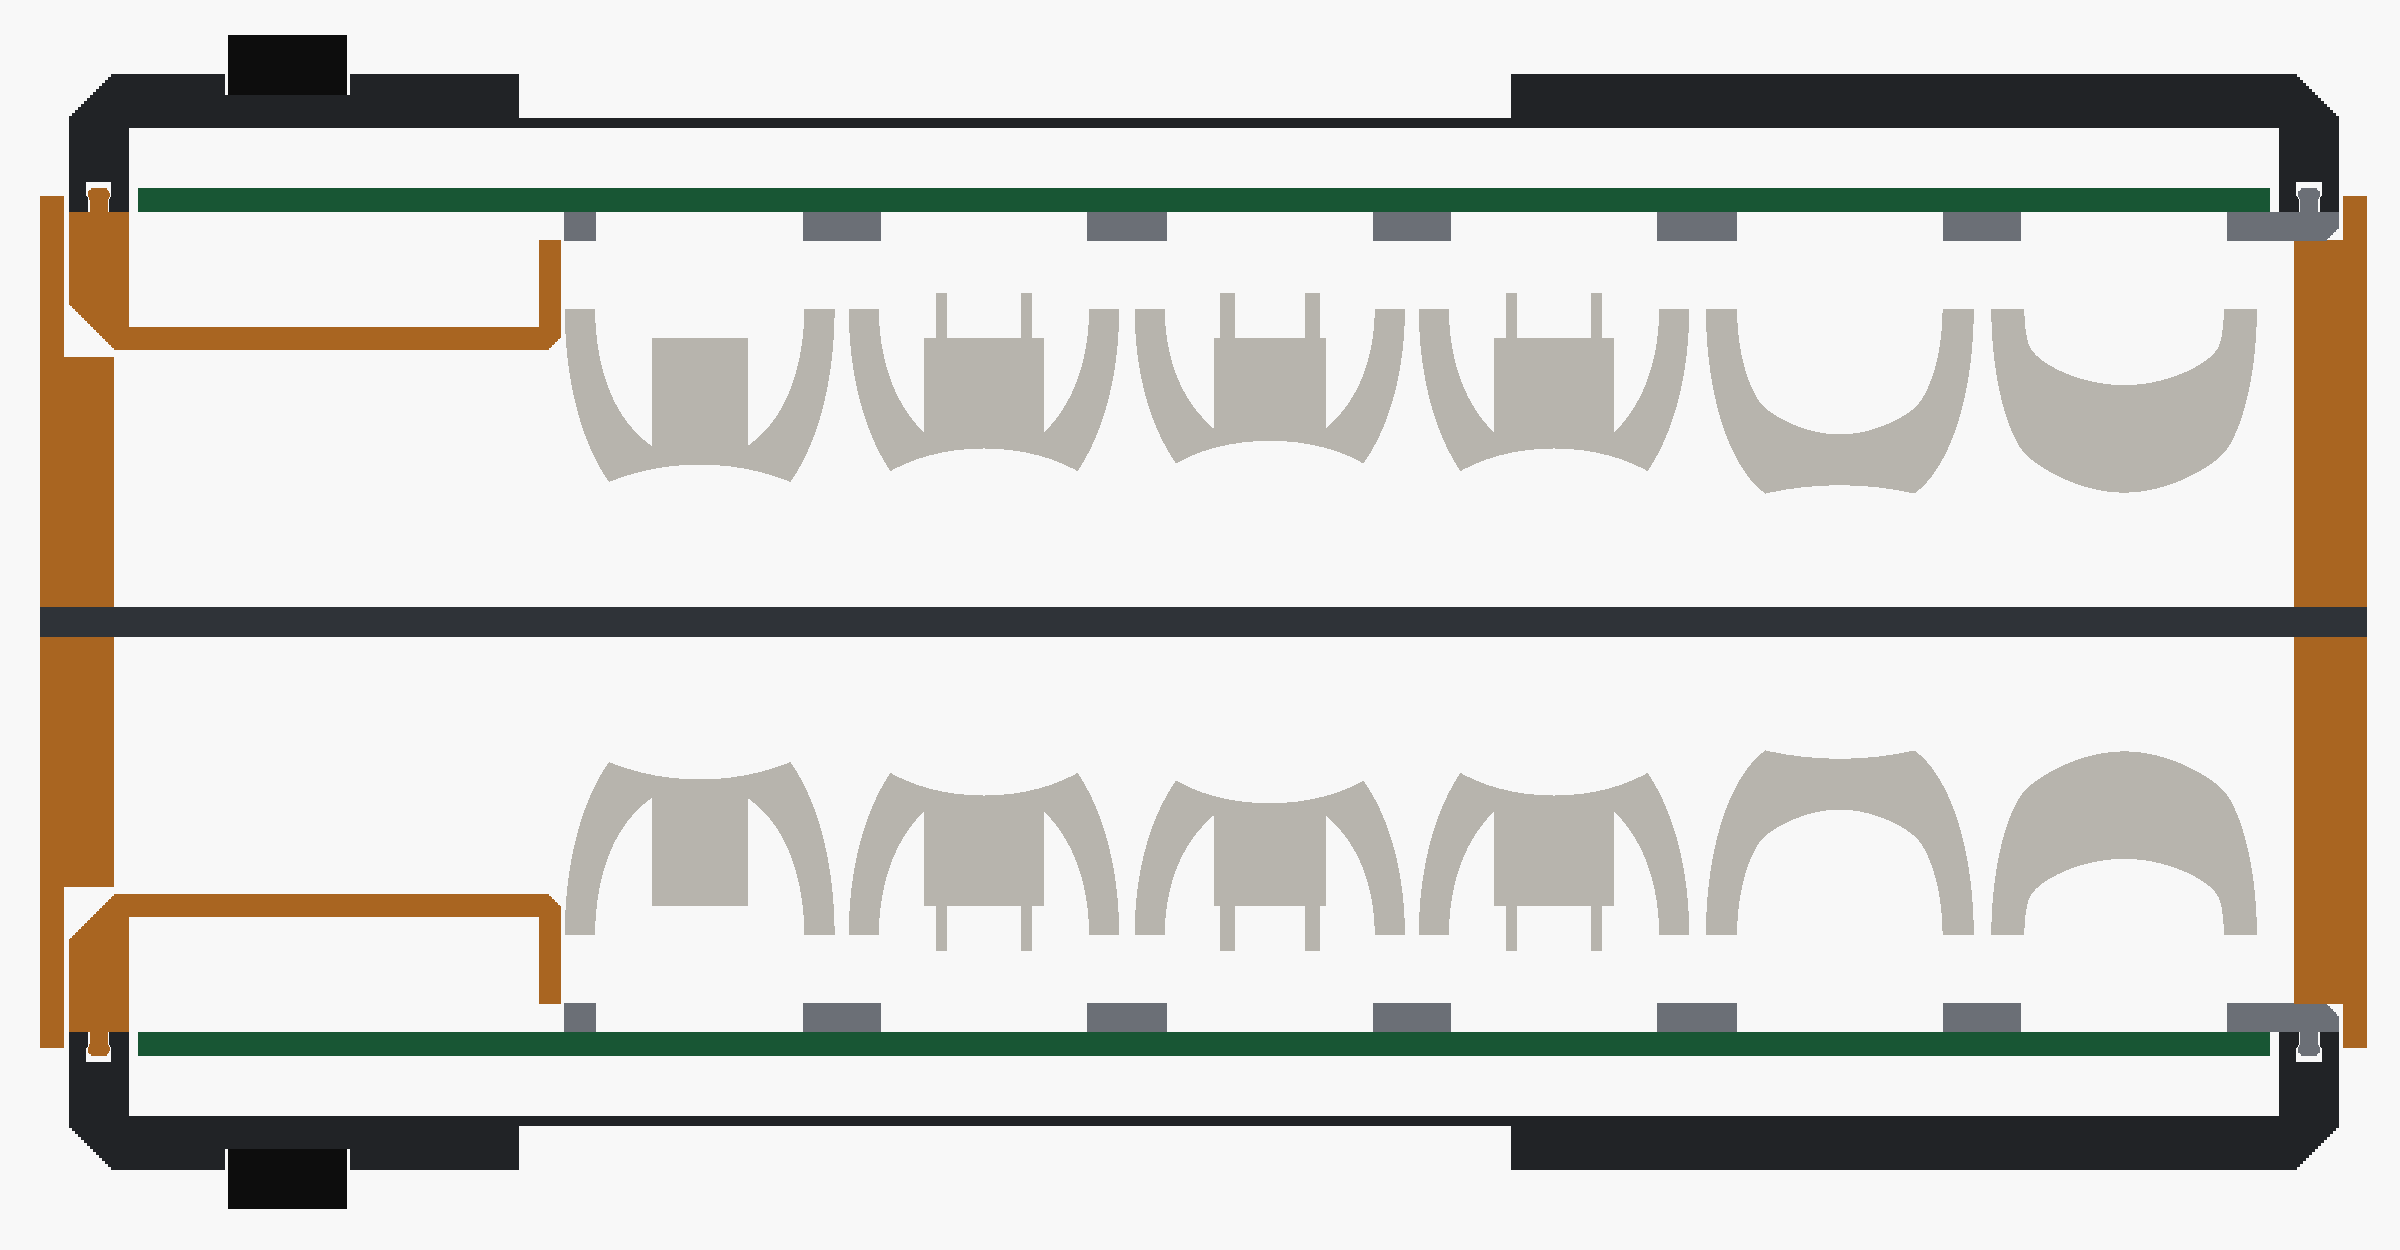
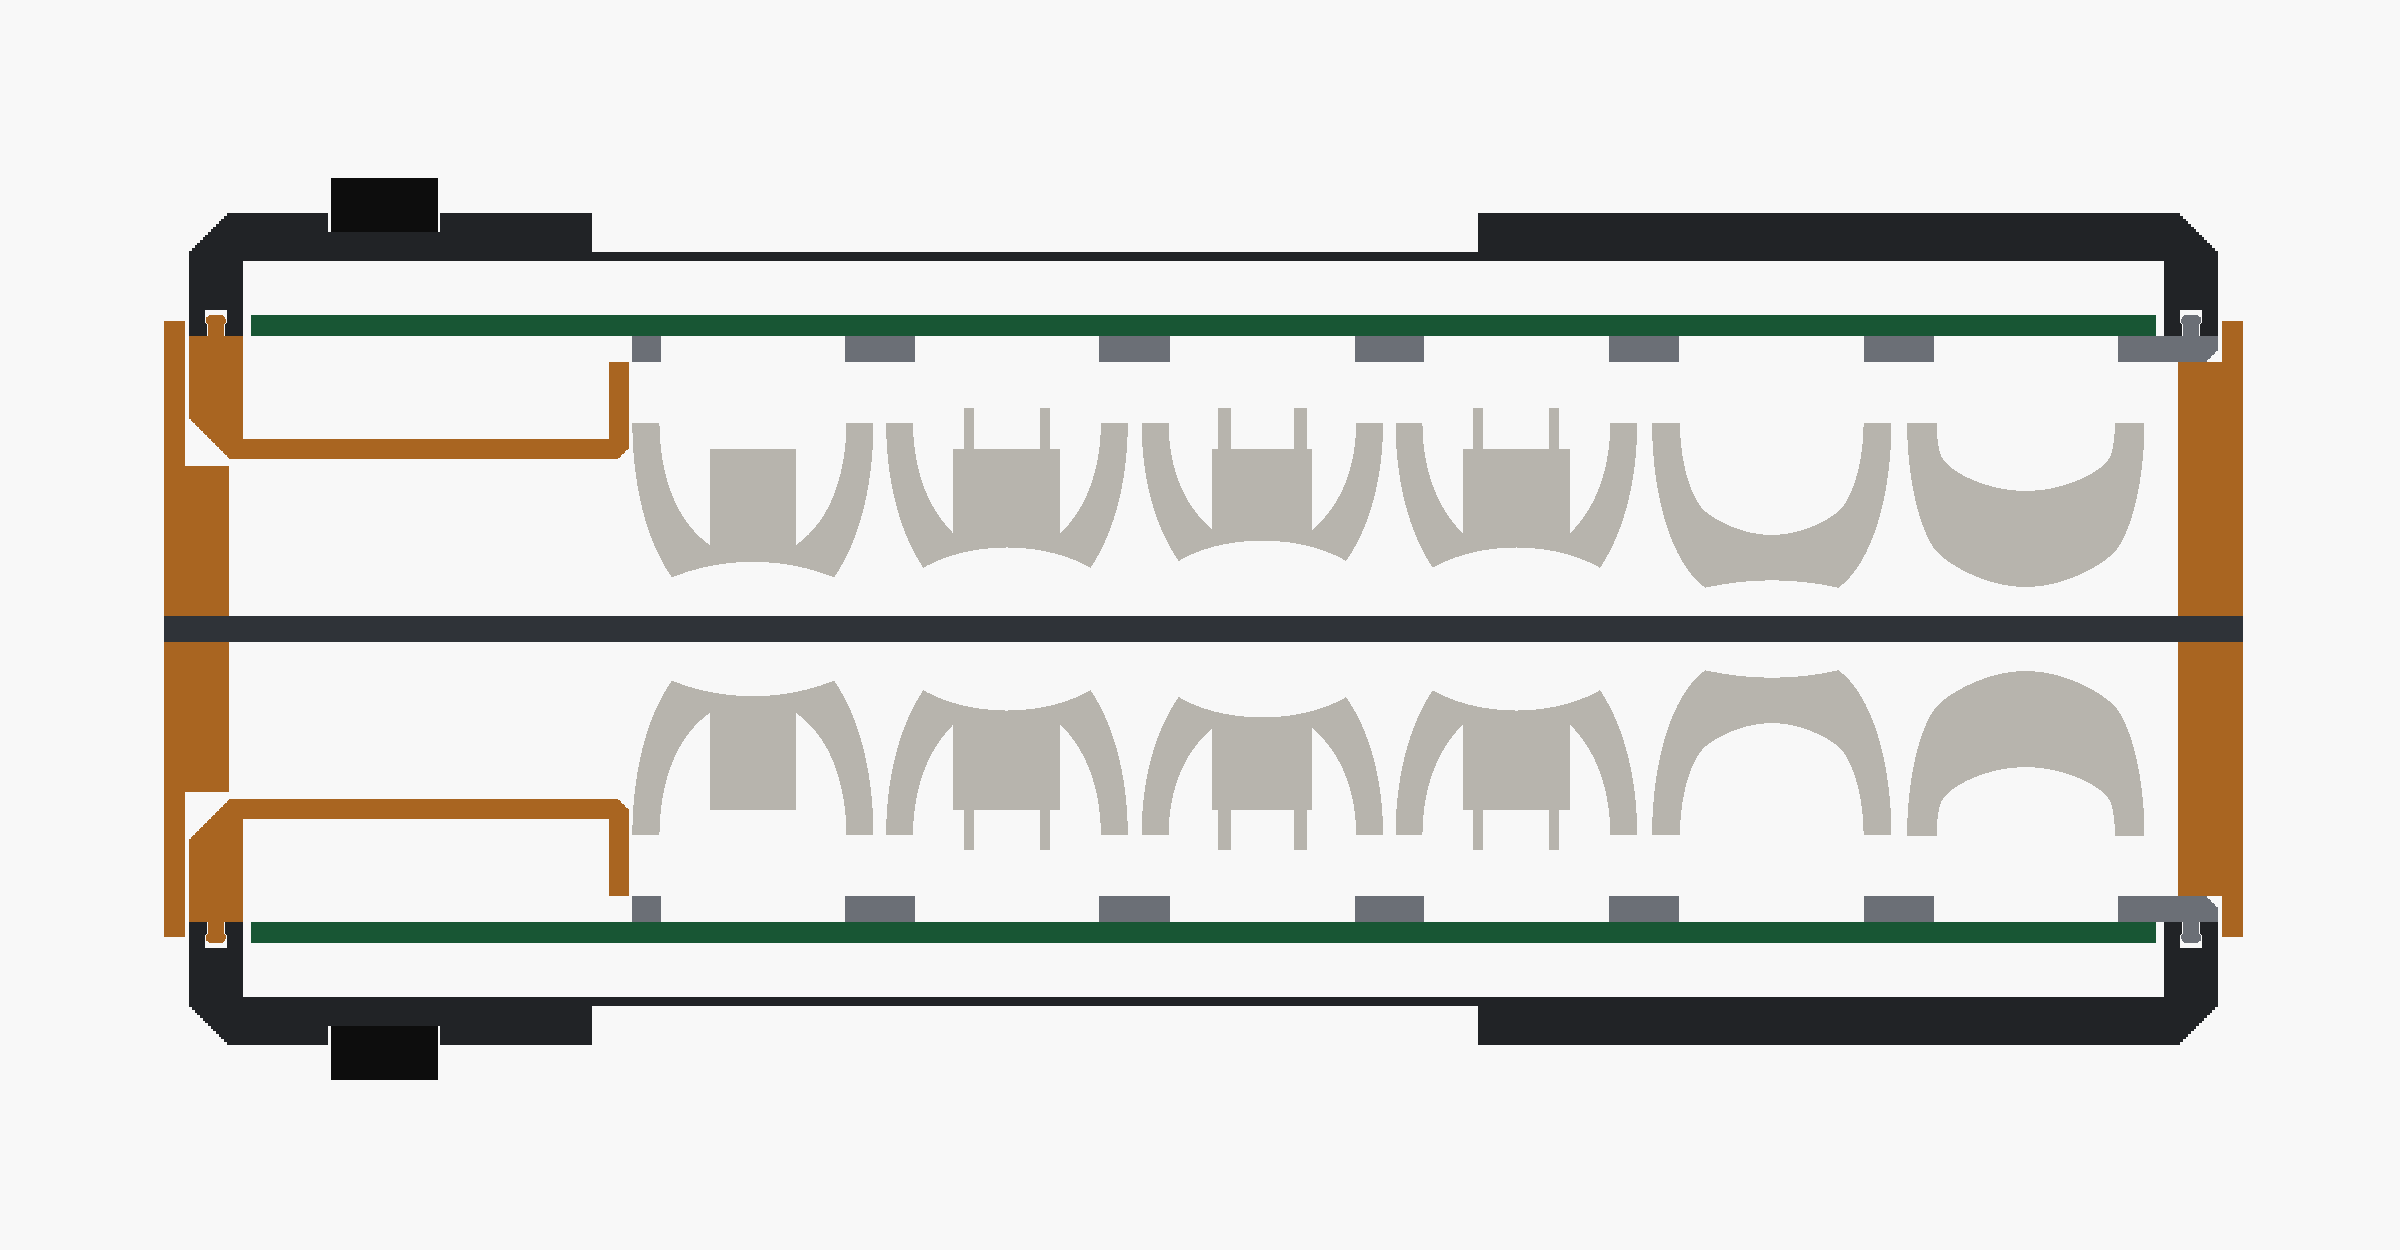
Carry case: own frames per board from measured keycap heights
- cc_caps per switch_type (owner, measured): MX 23.2 mm, Choc 18 mm,
  plus 1 mm cc_air; frames 24.2 / 19 mm (was 24.5 for both).
- build.sh also exports carry_frame_right/left_choc.stl; middle plate
  stays shared.
- Carry renders updated; section view centred per board (MX was cut off).
- ADR 0015, README, CLAUDE.md updated.

diff --git a/docs/adr/0015-carry-case.md b/docs/adr/0015-carry-case.md
@@ -2,7 +2,7 @@
 
 - **Status:** proposed (draft, not printed)
 - **Decided by:** owner (middle plate, the two halves face each other keys inwards, the trays are the
-  outside, rubber bands hold it, keycaps up to 23.5 mm above the plate so that both boards fit), derived (geometry)
+  outside, rubber bands hold it, measured keycap height above the plate: MX 23.2 mm, Choc 18 mm), derived (geometry)
 
 ## Context
 
@@ -16,24 +16,26 @@ themselves are the outer shell. The tray stays unchanged (ADR 0012).
 - **Frame** (`part="frame"`, `side=right|left`): a ring that rests on the outer 3 mm of the switch
   plate (`cc_rest`; all keycaps lie inside the PCB outline, checked). Over the controller cover
   (ADR 0012) it is open inside the skirt, `cc_cover` = 7.8 mm deep: the cover stands 7.3 mm above
-  the plate on the Choc board (4.2 on MX), + 0.5 mm. So one frame fits both boards, with or without
-  the cover. A 1.6 mm skirt reaches 3 mm down round the plate edge
-  (0.3 mm gap) and keeps the half from sliding. Height `cc_caps + cc_air` = 23.5 + 1 mm. Printed with
-  the middle-plate face on the bed; no overhangs. Right frame on the right half, left on the left.
-- **Middle plate** (`part="mid"`): 2 mm, an engraved "L" faces the left half.
+  the plate on the Choc board (4.2 on MX), + 0.5 mm, so it fits with or without the cover. A 1.6 mm
+  skirt reaches 3 mm down round the plate edge (0.3 mm gap) and keeps the half from sliding. Height `cc_caps + cc_air` (MX 23.2 + 1 = 24.2 mm,
+  Choc 18 + 1 = 19 mm), so each board has its own pair of frames (`carry_frame_right/left.stl`,
+  `carry_frame_right/left_choc.stl`). Printed with the middle-plate face on the bed; no overhangs.
+  Right frame on the right half, left on the left.
+- **Middle plate** (`part="mid"`): 2 mm, an engraved "L" faces the left half. Same for both boards.
 - **Alignment:** four 2.0 mm holes for 1.75 mm filament pieces as dowels (5 mm deep in the frames,
   through the middle plate). The pattern is asymmetric, so the plate only fits one way round.
 - **Rubber bands:** two 8 mm wide, 0.8 mm deep grooves (y 65 and 90) in the frames and the middle
   plate, across the straight left and right edges; the bands run over both tray bottoms.
-- **Wall height:** the owner set the tallest keycap to 23.5 mm above the plate top (`cc_caps`, 23 was
-  too tight) so the MX board fits as well. For reference: DES R1 is 16.7 mm tall from the skirt (MX),
-  12.8 mm (Choc). Frame 24.5 mm; case ~78 mm high with the Choc halves, ~85 mm with the MX halves
-  (51 mm without). Frames ~60 cm³ each, plate ~32 cm³.
+- **Wall height per board:** the owner measured the tallest keycap top above the plate top: MX 23.2 mm,
+  Choc 18 mm (`cc_caps`, chosen by `switch_type`); `cc_air` = 1 mm buffer above it. An earlier
+  common value of 23.5 mm for both boards left the Choc halves 5.5 mm of play. Frames 24.2 mm (MX) and
+  19 mm (Choc), plus the 3 mm skirt; case ~84 mm high with the MX halves (50 mm without), ~67 mm with
+  the Choc halves (40 mm without). Frames ~58 cm³ (MX) / ~45 cm³ (Choc) each, plate ~32 cm³.
 - `part="carry"` renders the stack.
 
 ## Measurements
 
-18. Tallest keycap top above the plate top on both boards; must stay below 24.5 mm (`cc_caps` + air).
+18. Tallest keycap top above the plate top: MX 23.2 mm, Choc 18 mm (owner, measured).
 
 ## Consequences
 
@@ -42,7 +44,7 @@ themselves are the outer shell. The tray stays unchanged (ADR 0012).
 
 ## Images
 
-Both boards, with blank DES / DES-Choc caps (cap height above the plate estimated):
+Both boards, each with its own frames and blank DES / DES-Choc caps (cap height in the scene estimated):
 [Choc closed](../img/case/choc_carry.png), [Choc exploded](../img/case/choc_carry_exploded.png),
 [Choc section through the number row](../img/case/choc_carry_section.png), and the same for MX
 (`docs/img/case/mx_carry*.png`). Rendered by `render/case.sh` (scene: `render/case_scene.scad`).

diff --git a/README.md b/README.md
@@ -292,8 +292,9 @@ the MX board (tallest keycap 24 mm above the plate, still to be measured).
 
 The halves face each other keys inwards; the trays are the outside (ADR 0015). Between them: a frame
 on each half (resting on the plate rim), a 2 mm middle plate, filament pieces as dowels, two rubber
-bands round everything. The frames fit both boards (keycaps up to 23.5 mm above the plate); the case
-is about 85 mm high with the MX halves, 78 mm with the Choc halves.
+bands round everything. Each board has its own pair of frames, sized to the measured keycap height above the plate plus 1 mm
+(MX 23.2 mm → `carry_frame_right/left.stl`, Choc 18 mm → `carry_frame_right/left_choc.stl`); the middle
+plate is shared. The case is about 84 mm high with the MX halves, 67 mm with the Choc halves.
 
 <!-- part: docs/rendering.md -->
 ## Images and rendering

diff --git a/CLAUDE.md b/CLAUDE.md
@@ -45,7 +45,8 @@ Context for new sessions. Read this first, then the ADRs in `docs/adr/` for the 
 7. **Travel sleeve** (ADR 0013): box with two chambers, halves slide in keys up, tray unchanged.
    Waiting for the keycap height above the plate (`MEASURE 15`).
 8. **Carry case** (ADR 0015, both boards): halves keys facing each other, a frame on each, a middle
-   plate between, rubber bands round it. Keycaps up to `cc_caps` = 23.5 mm above the plate (owner).
+   plate between, rubber bands round it. `cc_caps` per board (owner, measured): MX 23.2 mm,
+   Choc 18 mm, + 1 mm `cc_air`; own frames per board (`carry_frame_*_choc.stl`), shared middle plate.
    Not printed.
 
 ## Commands
